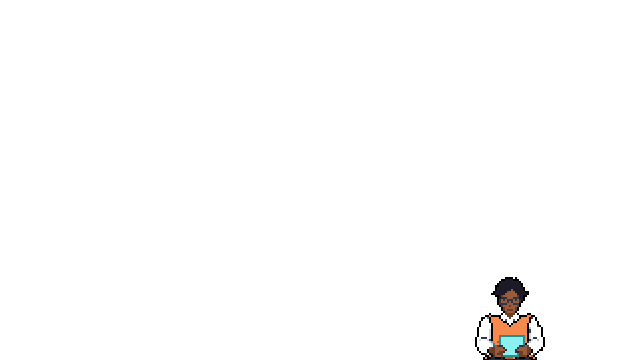
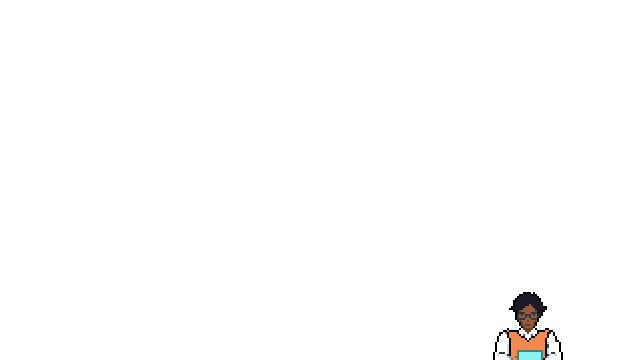
refont et espace

Changed region(s): [[0.7188, 0.7639, 0.875, 1.0]]

diff --git a/css/style.css b/css/style.css
@@ -30,6 +30,8 @@
   --couleur-actif: #fdc86e;
   --couleur-voile-accueil: rgba(27, 26, 38, 0.82);
   --couleur-voile-carton: rgba(27, 26, 38, 0.75);
+  /* Voyageurs qu'on ne lit pas pendant qu'une pensée est ouverte : légèrement assombris */
+  --filtre-retrait: brightness(0.72) saturate(0.85);
 
   /* Taille de la toile pixel art (en pixels source) */
   --toile-largeur: 640;
@@ -37,8 +39,10 @@
 
   /* Police d'interface : chasse fixe, proche de l'esprit pixel art */
   --police-interface: "Courier New", Courier, monospace;
-  --marge-interface: 1.25rem;
-  --pensee-largeur-max: 15rem;
+  /* Espace entre l'interface et les bords de l'écran */
+  --marge-interface: 1.5rem;
+  /* Bulle assez large pour qu'une pensée tienne en deux ou trois lignes */
+  --pensee-largeur-max: 18rem;
   /* Taille d'un pixel des images de la bulle (cadre en nuage et petites bulles) */
   --pensee-pixel: 2px;
   /* Centre de la porte du fond (x 320, y 214 sur la toile) : point vers lequel on zoome */
@@ -226,6 +230,12 @@ img {
     drop-shadow(0 calc(-1 * var(--pixel-source)) 0 var(--couleur-contour));
 }
 
+/* Pendant la lecture d'une pensée, les autres voyageurs passent en retrait :
+   l'oeil va tout de suite à celui qui « parle », la scène paraît moins chargée */
+.wagon--lecture .wagon__personnage:not(.wagon__personnage--survole) {
+  filter: var(--filtre-retrait);
+}
+
 /* Fumée de la locomotive, dehors : main.js l'agrandit depuis le point de fuite (centre de la toile),
    ce qui fait glisser les bouffées le long des fenêtres vers le spectateur */
 .wagon__fumee {
@@ -331,7 +341,7 @@ img {
   max-width: var(--pensee-largeur-max);
   /* La bulle est remontée de la hauteur des petites bulles qui la relient à la tête */
   margin-top: calc(-11 * var(--pensee-pixel));
-  padding: 0 0.2rem;
+  padding: 0.15rem 0.4rem;
   border: calc(8 * var(--pensee-pixel)) solid transparent;
   border-image: url("../assets/images/interface/bulle-cadre.png") 8 fill / calc(8 * var(--pensee-pixel)) round;
   /* Fond blanc légèrement en retrait des bords festonnés : il bouche les fines lignes
@@ -341,8 +351,8 @@ img {
   image-rendering: pixelated;
   filter: drop-shadow(var(--pensee-pixel) var(--pensee-pixel) 0 var(--couleur-pensee-ombre));
   color: var(--couleur-pensee-texte);
-  font-size: 0.85rem;
-  line-height: 1.4;
+  font-size: 0.95rem;
+  line-height: 1.5;
   pointer-events: none;
   /* Cachée au départ, GSAP la fait apparaître */
   visibility: hidden;
@@ -351,7 +361,7 @@ img {
 
 /* Prénom du personnage, au-dessus de sa pensée */
 .pensee__nom {
-  margin-bottom: 0.15rem;
+  margin-bottom: 0.3rem;
   color: var(--couleur-pensee-nom);
   font-size: 0.7rem;
   font-weight: 700;
@@ -394,6 +404,8 @@ img {
    7. Interface (indicateur, bouton Arrière)
    ========================================================== */
 
+/* Cartouche blanc à trait noir (comme les boutons) : il reste lisible
+   quel que soit le décor derrière (plafond clair du wagon 01, boiseries sombres du 02) */
 .indicateur {
   position: fixed;
   top: var(--marge-interface);
@@ -401,18 +413,25 @@ img {
   display: flex;
   align-items: center;
   gap: 0.75rem;
+  padding: 0.45rem 0.8rem;
+  border: 3px solid var(--couleur-bordure);
+  background-color: var(--couleur-bouton);
+  box-shadow: 4px 4px 0 var(--couleur-fond);
   font-size: 0.85rem;
   letter-spacing: 0.1em;
   text-transform: uppercase;
-  color: var(--couleur-texte);
-  text-shadow: 2px 2px 0 var(--couleur-fond);
+  color: var(--couleur-bouton-texte);
   pointer-events: none;
 }
 
 /* Chiffres de largeur fixe pour éviter que le texte bouge */
 .indicateur__numero {
-  color: var(--couleur-texte-discret);
+  color: var(--couleur-pensee-nom);
   font-variant-numeric: tabular-nums;
+}
+
+.indicateur__nom {
+  font-weight: 700;
 }
 
 /* Petit train : un wagon dessiné par section.wagon (créés par main.js) */
@@ -428,7 +447,7 @@ img {
   height: 12px;
   border: 2px solid var(--couleur-bordure);
   background-color: var(--couleur-bouton);
-  opacity: 0.5;
+  opacity: 0.35;
 }
 
 .indicateur__wagon::before {
@@ -455,21 +474,21 @@ img {
 
 /* Wagons déjà traversés */
 .indicateur__wagon--passe {
+  background-color: var(--couleur-bouton-survol);
   opacity: 1;
 }
 
 /* Wagon où se trouve l'utilisateur : allumé */
 .indicateur__wagon--actuel {
-  border-color: var(--couleur-actif);
   background-color: var(--couleur-actif);
   opacity: 1;
 }
 
-/* Bouton carré, bordure franche, sans arrondi : style pixel */
-.bouton-arriere {
+/* Boutons Arrière et Suivant : carrés, bordure franche, sans arrondi (style pixel),
+   chacun dans un coin du bas pour laisser le centre de la scène libre */
+.bouton {
   position: fixed;
   bottom: var(--marge-interface);
-  left: var(--marge-interface);
   padding: 0.6rem 1rem;
   border: 3px solid var(--couleur-bordure);
   border-radius: 0;
@@ -484,8 +503,18 @@ img {
   cursor: pointer;
 }
 
-/* Flèche pixel vers la gauche (grille de 8 x 7), de la couleur du texte */
-.bouton-arriere::before {
+.bouton-arriere {
+  left: var(--marge-interface);
+}
+
+.bouton-avant {
+  right: var(--marge-interface);
+}
+
+/* Flèche pixel vers la gauche (grille de 8 x 7), de la couleur du texte.
+   Le bouton Suivant reprend la même flèche, retournée et placée après le texte. */
+.bouton-arriere::before,
+.bouton-avant::after {
   content: "";
   display: inline-block;
   width: 0.8em;
@@ -497,18 +526,24 @@ img {
     0 42.86%, 12.5% 42.86%, 12.5% 28.57%, 25% 28.57%, 25% 14.29%, 37.5% 14.29%);
 }
 
-.bouton-arriere:hover,
-.bouton-arriere:focus-visible {
+.bouton-avant::after {
+  margin-right: 0;
+  margin-left: 0.5em;
+  transform: scaleX(-1);
+}
+
+.bouton:hover,
+.bouton:focus-visible {
   background-color: var(--couleur-bouton-survol);
 }
 
-.bouton-arriere:focus-visible {
+.bouton:focus-visible {
   outline: 3px solid var(--couleur-texte);
   outline-offset: 3px;
 }
 
-/* Au premier wagon, il n'y a pas de wagon précédent */
-.bouton-arriere:disabled {
+/* Au premier wagon, pas de wagon précédent ; au dernier, pas de wagon suivant */
+.bouton:disabled {
   opacity: 0.35;
   cursor: default;
 }
@@ -644,7 +679,7 @@ img {
   }
 
   .pensee {
-    font-size: 0.75rem;
+    font-size: 0.8rem;
   }
 
   .pensee__nom {
@@ -663,7 +698,11 @@ img {
     font-size: 0.75rem;
   }
 
-  .bouton-arriere {
+  .indicateur {
+    padding: 0.35rem 0.6rem;
+  }
+
+  .bouton {
     font-size: 0.8rem;
     padding: 0.5rem 0.8rem;
   }

diff --git a/js/main.js b/js/main.js
@@ -52,7 +52,7 @@ const DELAI_ATTENTE = 8;
 const TOLERANCE_OBSERVER = 10;
 
 // Pensées : espace entre le haut de la tête et la pointe de la bulle, en pixels source
-const ECART_BULLE = 6;
+const ECART_BULLE = 8;
 // Amplitude des secousses (train et porte verrouillée), en pixels source
 const PAS_SECOUSSE = 2;
 // Au-delà de cette distance (en pixels écran), un appui est un glissé et pas un clic ou un tap
@@ -77,6 +77,7 @@ const fondu = document.querySelector(".fondu");
 const indicateurNumero = document.querySelector(".indicateur__numero");
 const indicateurNom = document.querySelector(".indicateur__nom");
 const boutonArriere = document.querySelector(".bouton-arriere");
+const boutonAvant = document.querySelector(".bouton-avant");
 const bulle = document.querySelector(".pensee");
 const bulleTexte = document.querySelector(".pensee__texte");
 const cadrePorte = document.querySelector(".cadre-porte");
@@ -154,7 +155,7 @@ function creerTrain() {
   });
 }
 
-// Met à jour l'indicateur (petit train et texte) et l'état du bouton Arrière.
+// Met à jour l'indicateur (petit train et texte) et l'état des boutons Arrière et Suivant.
 function mettreAJourInterface() {
   [...indicateurTrain.children].forEach((petitWagon, i) => {
     petitWagon.classList.toggle("indicateur__wagon--passe", i < wagonActuel);
@@ -163,6 +164,7 @@ function mettreAJourInterface() {
   indicateurNumero.textContent = `${formaterNumero(wagonActuel + 1)} / ${formaterNumero(wagons.length)}`;
   indicateurNom.textContent = wagons[wagonActuel].dataset.titre;
   boutonArriere.disabled = wagonActuel === 0;
+  boutonAvant.disabled = wagonActuel === wagons.length - 1;
 }
 
 // Affiche uniquement le wagon demandé et referme ses portes.
@@ -399,6 +401,8 @@ function afficherPensee(image) {
     personnageAffiche.classList.remove("wagon__personnage--survole");
   }
   image.classList.add("wagon__personnage--survole");
+  // Les autres voyageurs du wagon passent en retrait (voir .wagon--lecture dans style.css)
+  image.closest(".wagon").classList.add("wagon--lecture");
   personnageAffiche = image;
 
   const { ancre } = donneesPersonnages.get(image);
@@ -463,6 +467,7 @@ function masquerPensee() {
     return;
   }
   personnageAffiche.classList.remove("wagon__personnage--survole");
+  personnageAffiche.closest(".wagon").classList.remove("wagon--lecture");
   personnageAffiche = null;
   gsap.killTweensOf(bulle);
   gsap.to(bulle, { autoAlpha: 0, duration: 0.1, ease: "steps(2)" });
@@ -578,14 +583,14 @@ function fermerAccueil() {
   accueilOuvert = false;
   clignotementInvite.kill();
   gsap.to(accueil, { autoAlpha: 0, duration: adapterDuree(0.4), ease: "steps(4)" });
-  gsap.to([indicateur, boutonArriere], { autoAlpha: 1, duration: adapterDuree(0.4), ease: "steps(4)" });
+  gsap.to([indicateur, boutonArriere, boutonAvant], { autoAlpha: 1, duration: adapterDuree(0.4), ease: "steps(4)" });
   afficherCarton(wagonActuel);
   relancerAttente();
 }
 
 // Prépare l'écran d'accueil : interface cachée, invitation qui clignote, bouton prêt au clavier.
 function ouvrirAccueil() {
-  gsap.set([indicateur, boutonArriere], { autoAlpha: 0 });
+  gsap.set([indicateur, boutonArriere, boutonAvant], { autoAlpha: 0 });
   clignotementInvite = gsap.to(inviteAccueil, { opacity: 0, duration: 0.5, ease: "steps(1)", repeat: -1, yoyo: true });
   boutonAccueil.focus();
 }
@@ -730,8 +735,9 @@ document.addEventListener("keydown", (evenement) => {
 // Écran d'accueil : un clic ou un tap n'importe où le ferme
 accueil.addEventListener("pointerup", fermerAccueil);
 
-// Bouton de retour au wagon précédent
+// Boutons : retour au wagon précédent, passage au suivant (comme la porte du fond)
 boutonArriere.addEventListener("click", wagonPrecedent);
+boutonAvant.addEventListener("click", wagonSuivant);
 
 // Pensées et porte : survol à la souris, clic ou tap
 scene.addEventListener("pointermove", gererSurvol);

diff --git a/index.html b/index.html
@@ -125,7 +125,7 @@
 
   </main>
 
-  <!-- Interface : indicateur du wagon courant et bouton de retour.
+  <!-- Interface : indicateur du wagon courant et boutons Arrière / Suivant.
        Le petit train est rempli par main.js (un wagon dessiné par section.wagon). -->
   <p class="indicateur" aria-live="polite">
     <span class="indicateur__train" aria-hidden="true"></span>
@@ -133,16 +133,18 @@
     <span class="indicateur__nom"></span>
   </p>
 
-  <button class="bouton-arriere" type="button">Arrière</button>
+  <button class="bouton bouton-arriere" type="button">Arrière</button>
+  <!-- Même action que la porte du fond, pour ceux qui ne pensent pas à cliquer dessus -->
+  <button class="bouton bouton-avant" type="button">Suivant</button>
 
   <!-- Écran d'accueil : titre et consignes sur toute la fenêtre, disparaît à la première action -->
   <div class="accueil">
     <div class="accueil__contenu">
       <h1 class="accueil__titre">Le Train des Époques</h1>
       <ul class="accueil__consignes">
-        <li><span class="accueil__geste">Molette, glisser ou flèches</span> avancer d'un wagon</li>
         <li><span class="accueil__geste">Survoler ou toucher un voyageur</span> lire sa pensée</li>
-        <li><span class="accueil__geste">Porte du fond</span> passer au wagon suivant</li>
+        <li><span class="accueil__geste">Porte du fond ou bouton Suivant</span> wagon suivant</li>
+        <li><span class="accueil__geste">Flèches, molette ou glisser</span> se déplacer</li>
       </ul>
       <button class="accueil__bouton" type="button">Monter à bord</button>
       <p class="accueil__invite">ou appuie n'importe où</p>

diff --git a/DOCUMENTATION.md b/DOCUMENTATION.md
@@ -25,6 +25,7 @@ Des personnages sont assis dans le wagon. Selon l'architecture du wagon, on les 
 | Clic ou tap ailleurs, ou touche Échap | La bulle disparaît |
 
 - Une seule bulle à la fois. Elle disparaît pendant les changements de wagon.
+- Pendant qu'une pensée est ouverte, les autres voyageurs du wagon sont légèrement assombris (classe `wagon--lecture` sur la section, filtre `--filtre-retrait` dans le CSS) : l'oeil va directement à celui qu'on lit.
 - La bulle est un nuage pixel art (`assets/images/interface/bulle-cadre.png`, découpé en 9 morceaux par le CSS) relié à la tête par deux petites bulles (`bulle-queue.png`). Elle affiche le prénom du personnage (`data-nom`) puis sa pensée, écrite lettre par lettre.
 - Le survol est détecté au pixel près : seuls les pixels visibles du calque du personnage comptent, pas le rectangle de l'image.
 - La bulle se place au-dessus du pixel le plus haut du personnage (le haut de la tête). Rien à régler : dessiner le personnage suffit.
@@ -43,7 +44,8 @@ Le rendu est en **pixel art 2D**, dans le style de Joaquim (le personnage de Lin
 | Flèche gauche ou flèche haut | Retour au wagon précédent |
 | Clic ou tap sur la porte du fond | Passage au wagon suivant |
 | Survol de la porte à la souris | Cadre lumineux autour de la porte et étiquette « Wagon suivant » (« Fin du train » au dernier wagon) |
-| Bouton "Arrière" à l'écran | Retour au wagon précédent |
+| Bouton "Arrière" à l'écran (en bas à gauche) | Retour au wagon précédent |
+| Bouton "Suivant" à l'écran (en bas à droite) | Passage au wagon suivant (même effet que la porte) |
 
 Passage au wagon suivant : la porte du fond s'ouvre pendant que la vue s'approche d'elle (zoom), l'écran passe au noir, puis le wagon suivant apparaît avec un léger recul.
 Retour : fondu au noir, puis le wagon précédent apparaît.
@@ -52,14 +54,15 @@ Retour : fondu au noir, puis le wagon précédent apparaît.
 ### Accueil et interface
 
 - Au chargement, un écran d'accueil (titre et consignes) couvre la fenêtre, le train roule déjà derrière. Le premier geste (clic, tap, molette, swipe ou touche) le ferme sans changer de wagon.
-- En haut à gauche, l'indicateur montre un petit train (un wagon par `section.wagon`, le wagon actuel allumé en jaune), le numéro et le titre du wagon.
+- En haut à gauche, dans un cartouche blanc à trait noir (lisible sur tous les décors), l'indicateur montre un petit train (un wagon par `section.wagon`, le wagon actuel allumé en jaune), le numéro et le titre du wagon.
 - Signes de vie : chaque voyageur se soulève d'un pixel de temps en temps (respiration). Après 8 s sans action, le cadre de la porte clignote doucement pour montrer où aller (sauf au dernier wagon).
 
 Règles :
 - Une action = un seul wagon, jamais plus.
 - Pendant une animation, les nouvelles actions sont ignorées (pas de file d'attente).
 - Au dernier wagon, la porte est verrouillée : elle tremble légèrement au lieu de s'ouvrir.
-- Au premier wagon, le bouton "Arrière" est désactivé.
+- Au premier wagon, le bouton "Arrière" est désactivé ; au dernier, le bouton "Suivant" l'est aussi.
+- Placement des voyageurs : deux voyageurs côte à côte ne doivent pas se chevaucher de plus de quelques pixels, et personne ne doit cacher la porte du fond (x 288 à 352). Les sprites ne sont jamais redimensionnés : pour gagner de la place à l'écran, on avance la rangée vers la caméra (wagons 01 et 02 : rangée du milieu en profondeur 2,0, rangée de devant en 1,2 à 1,25).
 - Prévu plus tard (pas maintenant) : avancer progressivement dans l'allée, plusieurs crans de molette avant d'atteindre la porte.
 
 ---
@@ -325,7 +328,7 @@ L'ordre de ce tableau est l'ordre du train.
 
 | N° | Dossier | Architecture (placeholder) | Histoire | Couleurs propres | Responsable | État |
 |---|---|---|---|---|---|---|
-| 01 | `wagon-01` | Voiture en bois clair (placeholder) : banquettes en bois toutes tournées vers le spectateur (rangée du milieu, rangée de devant à dossier bas, coupée par le bas de l'écran), poêle à charbon, toit à lanterneau, lampes suspendues. Bancs en calques séparés (`banc-01` à `banc-03`). Les 8 élèves : au milieu Lino, Joaquim, Inas et Erine ; devant Lilian, Raphaël, Liku et Alio | Placeholder (Lorem ipsum), futur wagon MMI | aucune en plus de la palette | à définir | Joaquim et Erine dessinés à la main, les 6 autres provisoires (variantes de Joaquim) |
+| 01 | `wagon-01` | Voiture en bois clair (placeholder) : banquettes en bois toutes tournées vers le spectateur (rangée du milieu, rangée de devant à dossier bas, coupée par le bas de l'écran : on y voit surtout les têtes), poêle à charbon, toit à lanterneau, lampes suspendues. Bancs en calques séparés (`banc-01` à `banc-03`). Les 8 élèves : au milieu Lino, Joaquim, Inas et Erine ; devant Lilian, Raphaël, Liku et Alio | Placeholder (Lorem ipsum), futur wagon MMI | aucune en plus de la palette | à définir | Joaquim et Erine dessinés à la main, les 6 autres provisoires (variantes de Joaquim) |
 | 02 | `wagon-02` | Voiture-salon de 1re classe d'un train à vapeur (vers 1900) : voûte en acajou à caissons, filets de laiton, fenêtres cintrées à rideaux de velours et lambrequins, appliques et lampes à gaz, fauteuils pivotants de velours capitonnés tournés vers le spectateur, guéridons à nappe blanche, tapis d'Orient, tableaux au mur du fond. Dehors, la fumée de la locomotive passe devant les fenêtres. Les 5 professeurs en tenue 1900 : Mr Blanco (melon), Mr Bernard (haut-de-forme, monocle), Mme De velder (chapeau à plume), Mme Pitot (chignon), Mr Gassin (canotier, au premier plan) | Le Salon à vapeur (pensées en Lorem ipsum) | acajou `#7a3b2e`, acajou sombre `#47212a`, laiton `#c98f3e`, velours `#b3263f`, velours prune `#5e1f45` | à définir | illustration v2 (DA Joaquim), professeurs provisoires (variantes de Joaquim) |
 | 03 | `wagon-03` | Voiture Corail (années 1980) : rangées de sièges orange tournés vers la porte, têtières blanches, néons. Voyageurs de dos, tête au-dessus des dossiers | Placeholder (Consectetur) | aucune | à définir | placeholder |
 | 04 | `wagon-04` | Train du futur : sièges coques le long des parois, plafond arrondi, bandes lumineuses cyan, grandes baies. Voyageurs de côté | Placeholder (Adipiscing elit) | aucune | à définir | placeholder |
